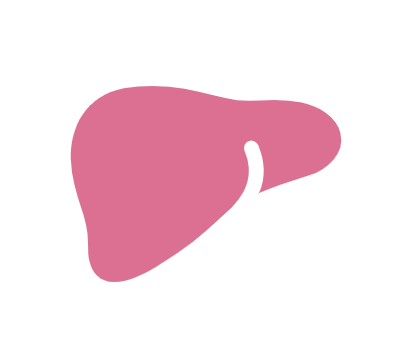
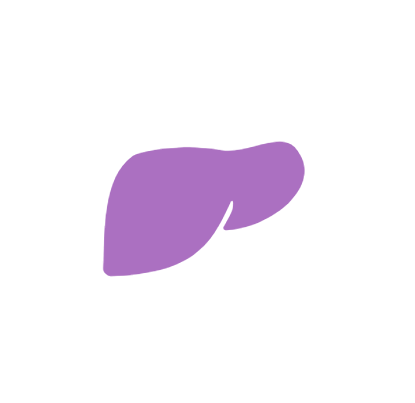
color change

Changed region(s): [[0.1446, 0.2127, 0.8386, 0.7901]]

diff --git a/index.html b/index.html
@@ -45,7 +45,7 @@
 					</div>
 				</span>
 			</div>
-			<div class="pie-chart1">
+			<div class="pie-chart2">
 				<span class="center">
 					<div class="text">
 						<h2 style="font-size: 2.0rem">20대 월간 폭음률</h2>
@@ -98,7 +98,7 @@
 		</div>
 		<div class="text-container">
 			<div class="text">
-				<div class="img"><img src="img/image (7).png" style="width: 10%; min-width: 100px;"/></div>
+				<div class="img"><img src="img/image (7).png" style="width: 15%; min-width: 100px;"/></div>
 				<h1>음주, 혼자 멈추기 힘들다면</h1>
 				<br>
 				<br>

diff --git a/style.css b/style.css
@@ -110,6 +110,17 @@ header a {
 	transition: 0.3s;
 }
 
+.pie-chart2 {
+	display: block;
+	width: 300px;
+	height: 300px;
+	position: relative;
+	top: 20%;
+	margin: auto;	
+	border-radius: 50%;
+	transition: 0.3s;
+}
+
 span.center{
 	background: white;
 	display: block;
@@ -123,6 +134,16 @@ span.center{
 }
 
 .pie-chart1 .text {
+	position: relative;
+	top: 50%;
+	text-align: center;
+	color: #C370AA;
+	line-height: 80%;
+	font-weight: 800;
+	transform: translate(0%, -50%);
+}
+
+.pie-chart2 .text {
 	position: relative;
 	top: 50%;
 	text-align: center;
